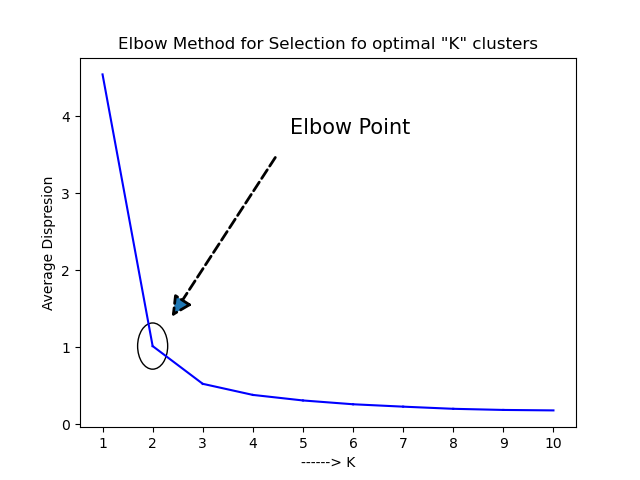
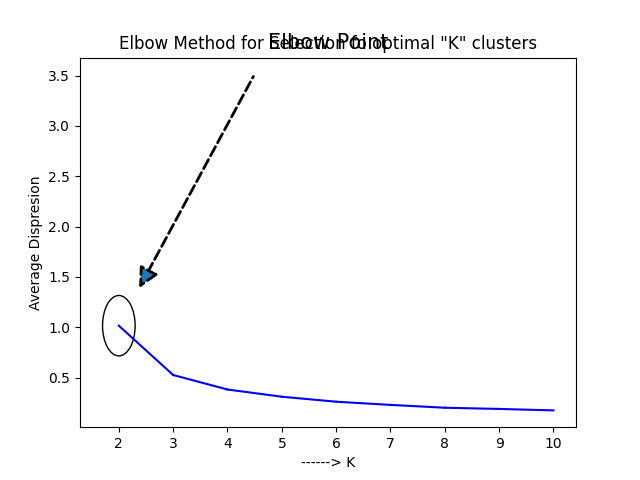
found the issue in the bonus

diff --git a/bonus.py b/bonus.py
@@ -15,14 +15,14 @@ def run() -> None:
 	K-means clusterization.
 	"""
 	# loading the needed data
-	k_vals = np.arange(1,11)
+	k_vals = np.arange(2,11)
 	iris_data = load_iris().data
 	prev: list
 	circle: plt.Circle
 	
 	# iterating over the different K values - the number of clusters/centroids
 	for ind, k in enumerate(k_vals):
-		curr = [k, KMeans(n_clusters = k,  init = 'k-means++').fit(iris_data).inertia_ / len(iris_data)]
+		curr = [k, KMeans(n_clusters = k,  init = 'k-means++', random_state=0).fit(iris_data).inertia_ / len(iris_data)]
 		if ind != 0:
 			plt.plot([prev[0], curr[0]], [prev[1], curr[1]], color="blue")
 		prev = curr
